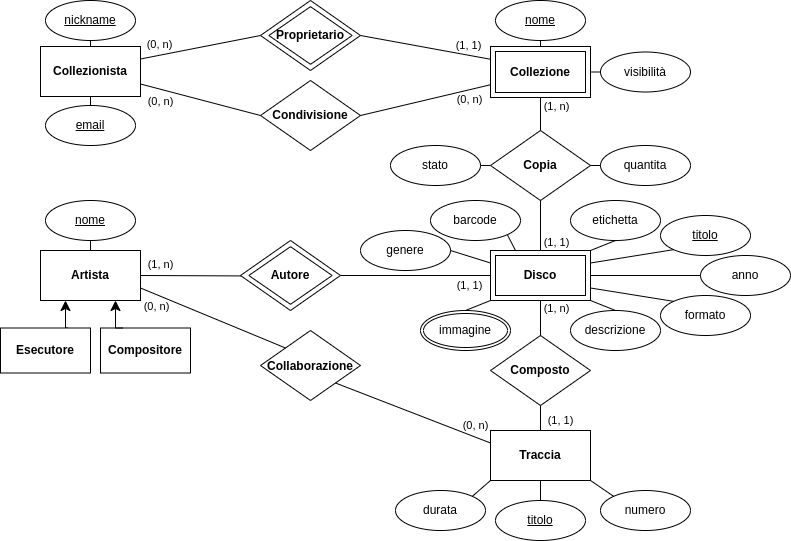
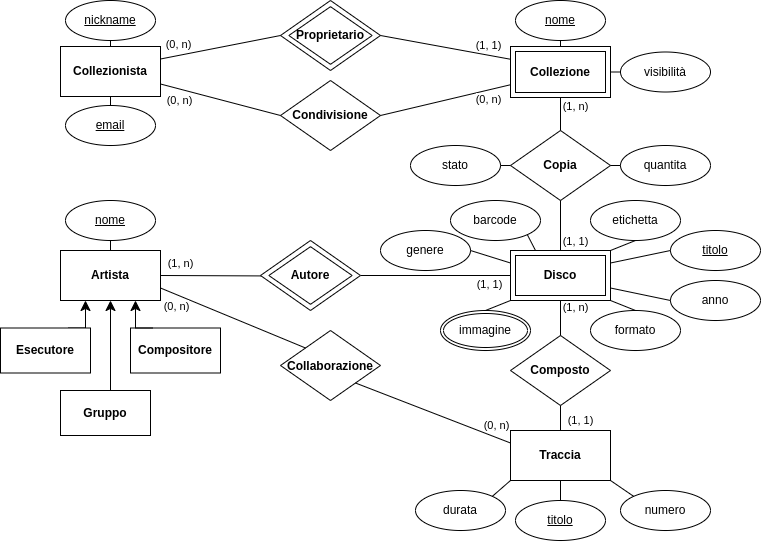
Eliminata descrizione, aggiunto gruppo

diff --git a/design/Collectors_Modello_Relazionale.md b/design/Collectors_Modello_Relazionale.md
@@ -1,10 +1,10 @@
-* **Collezionista** (<u>ID</u>, nickname, email) <br>
-* **Collezione** (<u>ID</u>, ID_collezionista, nome, visibilità) <br>
-* **Condivisione** (<u>ID_collezionista</u>, <u>ID_collezione</u>) <br>
-* **Artista** (<u>ID</u>, nome, tipo) <br>
-* **Disco** (<u>ID</u>, ID_autore, titolo, formato, barcode) <br>
-* **Copia** (<u>ID_collezione</u>, <u>ID_disco</u>, stato, quantità) <br>
-* **Immagine** (<u>ID</u>, ID_disco, path, etichetta) <br>
-* **Info_Disco** (<u>ID_disco</u>, genere, descrizione, etichetta, anno) <br>
-* **Traccia** (<u>ID</u>, ID_disco, numero, titolo, durata) <br>
-* **Collaborazione** (<u>ID_artista</u>, <u>ID_traccia</u>)
+* **Collezionista** (**<ins>ID</ins>**, nickname, email) <br>
+* **Collezione** (**<ins>ID</ins>**, <ins>ID_collezionista</ins>, nome, visibilità) <br>
+* **Condivisione** (<ins>ID_collezionista</ins>, <ins>ID_collezione</ins>) <br>
+* **Artista** (**<ins>ID</ins>**, nome, tipo) <br>
+* **Disco** (**<ins>ID</ins>**, <ins>ID_autore</ins>, titolo, formato, barcode) <br>
+* **Copia** (<ins>ID_collezione</ins>, <ins>ID_disco</ins>, stato, quantità) <br>
+* **Immagine** (**<ins>ID</ins>**, <ins>ID_disco</ins>, path, etichetta) <br>
+* **Info_Disco** (<ins>ID_disco</ins>, genere, etichetta, anno) <br>
+* **Traccia** (**<ins>ID</ins>**, <ins>ID_disco</ins>, numero, titolo, durata) <br>
+* **Collaborazione** (<ins>ID_artista</ins>, <ins>ID_traccia</ins>)
